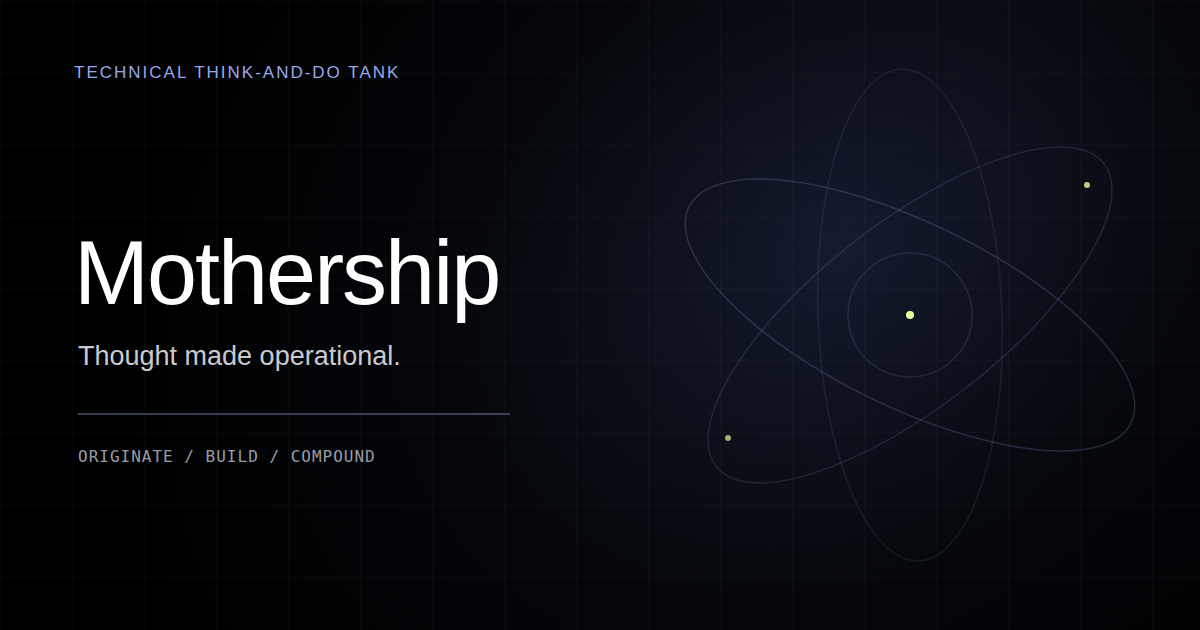
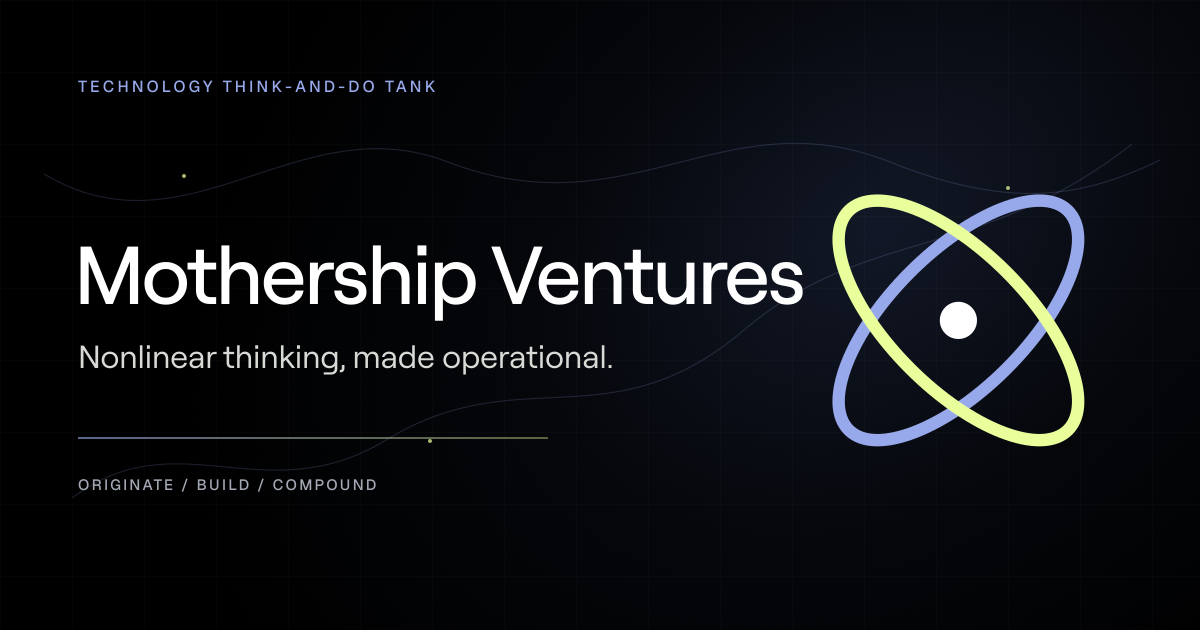
Refine Mothership site copy and identity

diff --git a/index.html b/index.html
@@ -3,25 +3,25 @@
 <head>
   <meta charset="utf-8">
   <meta name="viewport" content="width=device-width, initial-scale=1">
-  <title>Mothership — Technical Think-and-Do Tank</title>
-  <meta name="description" content="Mothership is a technical think-and-do tank that originates ventures, co-builds with founders, and turns every build into an advantage for what comes next.">
+  <title>Mothership Ventures — Technology Think-and-Do Tank</title>
+  <meta name="description" content="Nonlinear thinking, made operational. A Technology Think-and-Do Tank that originates ventures, co-builds with founders, and compounds what it learns.">
   <meta name="robots" content="index, follow">
   <meta name="theme-color" content="#000000">
   <link rel="canonical" href="https://mothership-ventures.github.io/">
 
   <meta property="og:type" content="website">
-  <meta property="og:title" content="Mothership — Technical Think-and-Do Tank">
-  <meta property="og:description" content="We find the structure before it becomes a category—and build the company that proves it.">
+  <meta property="og:title" content="Mothership Ventures — Technology Think-and-Do Tank">
+  <meta property="og:description" content="Nonlinear thinking, made operational. A Technology Think-and-Do Tank that originates ventures, co-builds with founders, and compounds what it learns.">
   <meta property="og:url" content="https://mothership-ventures.github.io/">
-  <meta property="og:site_name" content="Mothership">
+  <meta property="og:site_name" content="Mothership Ventures">
   <meta property="og:image" content="https://mothership-ventures.github.io/og-image.png">
   <meta property="og:image:width" content="1200">
   <meta property="og:image:height" content="630">
-  <meta property="og:image:alt" content="Mothership — thought made operational">
+  <meta property="og:image:alt" content="Mothership Ventures — nonlinear thinking made operational">
 
   <meta name="twitter:card" content="summary_large_image">
-  <meta name="twitter:title" content="Mothership — Technical Think-and-Do Tank">
-  <meta name="twitter:description" content="We find the structure before it becomes a category—and build the company that proves it.">
+  <meta name="twitter:title" content="Mothership Ventures — Technology Think-and-Do Tank">
+  <meta name="twitter:description" content="Nonlinear thinking, made operational. A Technology Think-and-Do Tank that originates ventures, co-builds with founders, and compounds what it learns.">
   <meta name="twitter:image" content="https://mothership-ventures.github.io/og-image.png">
 
   <link rel="preconnect" href="https://fonts.gstatic.com" crossorigin>
@@ -171,18 +171,27 @@
       width: min(100%, var(--max));
       display: flex;
       align-items: center;
-      justify-content: space-between;
+      justify-content: flex-start;
       gap: 20px;
     }
 
     .brand {
       display: inline-flex;
       align-items: center;
-      gap: 12px;
+      gap: 11px;
       color: #e5e7e2;
-      font-size: 14px;
-      letter-spacing: .01em;
+      font-family: "Geist Mono", monospace;
+      font-size: clamp(11px, 1.6vw, 13px);
+      font-weight: 500;
+      letter-spacing: .11em;
+      text-transform: uppercase;
       white-space: nowrap;
+      transition: color .28s var(--ease), transform .28s var(--ease);
+    }
+
+    .brand:hover {
+      color: #fff;
+      transform: translateY(-1px);
     }
 
     .mark {
@@ -1106,15 +1115,18 @@
       position: relative;
       z-index: 2;
       display: flex;
-      justify-content: space-between;
-      gap: 24px;
-      padding: 28px 32px;
+      flex-direction: column;
+      align-items: center;
+      justify-content: center;
+      gap: 8px;
+      padding: 32px 24px 36px;
       border-top: 1px solid rgba(255,255,255,.055);
       color: rgba(255,255,255,.38);
       font-family: "Geist Mono", monospace;
       font-size: 10px;
       letter-spacing: .035em;
       text-transform: uppercase;
+      text-align: center;
     }
 
     .reveal {
@@ -1211,13 +1223,15 @@
       }
 
       .brand {
-        font-size: 12px;
+        gap: 10px;
+        font-size: 10.5px;
+        letter-spacing: .085em;
       }
 
-      .topbar .button {
-        min-height: 34px;
-        padding-inline: 12px;
-        font-size: 11px;
+      .mark {
+        width: 20px;
+        height: 20px;
+        flex-basis: 20px;
       }
 
       .hero {
@@ -1361,11 +1375,10 @@
 
   <nav class="topbar" aria-label="Primary navigation">
     <div class="topbar-inner">
-      <a class="brand" href="#top" aria-label="Mothership, return to top">
+      <a class="brand" href="#top" aria-label="Mothership Ventures, return to top">
         <span class="mark" aria-hidden="true"></span>
-        <span>Mothership</span>
+        <span>Mothership Ventures</span>
       </a>
-      <a class="button primary" href="#enter" data-booking-link>Begin Here</a>
     </div>
   </nav>
 
@@ -1390,18 +1403,18 @@
 
       <div class="hero-content">
         <div class="hero-meta reveal">
-          <span>Technical think-and-do tank</span>
+          <span>Technology Think-and-Do Tank</span>
           <span>Thought → Venture → Infrastructure</span>
           <span>Venture system / 2026</span>
         </div>
 
         <div class="hero-main reveal">
           <div class="eyebrow">Mothership</div>
-          <h1 id="hero-title">We find the structure before it becomes a category—and build the company that proves it.</h1>
-          <p class="hero-intro">Mothership is a technical think-and-do tank. We originate ventures, co-build with founders, and turn everything we learn into an advantage for what we build next.</p>
+          <h1 id="hero-title">Nonlinear thinking, made operational.</h1>
+          <p class="hero-intro">Mothership Ventures is a Technology Think-and-Do Tank for minds that move across domains. We originate ventures, co-build with founders, and turn every build into reusable data, systems, knowledge, and operating advantage.</p>
           <div class="hero-actions">
             <a class="button" href="#fields">Explore our fields of interest <span class="arrow" aria-hidden="true">↓</span></a>
-            <a class="button primary" href="#enter" data-booking-link>Begin Here <span class="arrow" aria-hidden="true">↗</span></a>
+            <a class="button primary" href="#enter" data-booking-link>Mothership Calls <span class="arrow" aria-hidden="true">↗</span></a>
           </div>
         </div>
 
@@ -1673,7 +1686,7 @@
           </div>
           <div class="entry-convergence">
             <strong>Your idea or ours. Begin with a conversation.</strong>
-            <a class="button primary" href="#enter" data-booking-link>Begin Here <span class="arrow" aria-hidden="true">↗</span></a>
+            <a class="button primary" href="#enter" data-booking-link>Mothership Calls <span class="arrow" aria-hidden="true">↗</span></a>
           </div>
         </div>
       </div>
@@ -1689,8 +1702,10 @@
   </main>
 
   <footer class="footer">
-    <span>Mothership / © 2026</span>
-    <span>Technical think-and-do tank</span>
+    <span>Mothership Ventures / © 2026</span>
+    <span>Nada Technologies UG (haftungsbeschränkt)</span>
+    <span>Poststraße 33, 20354 Hamburg, Germany</span>
+    <span>Geschäftsführer: Karim Ahmed · Amtsgericht Hamburg · HRB 143470</span>
   </footer>
 
   <script>